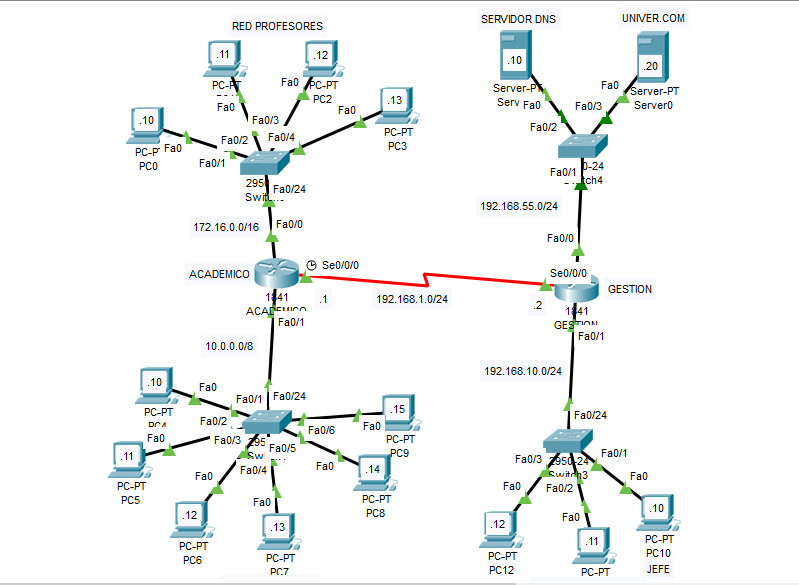
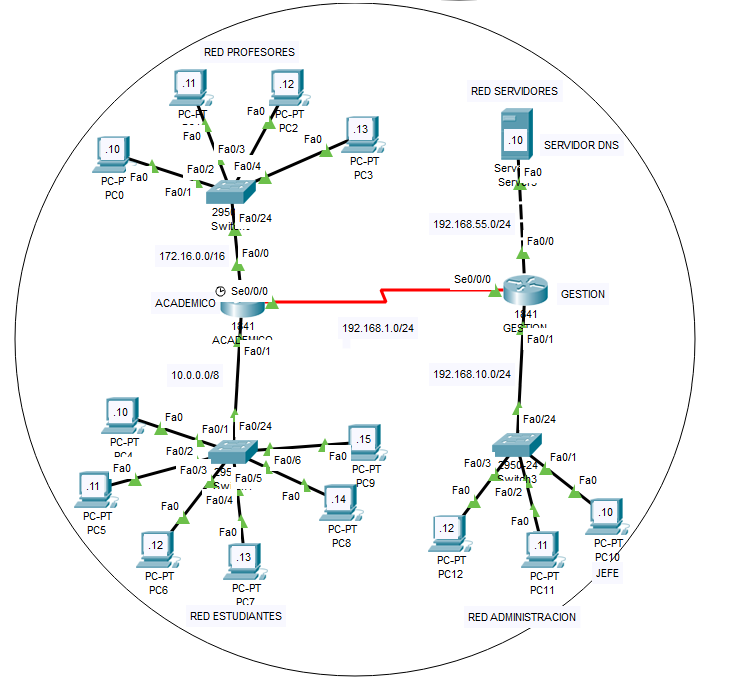
Topologia de Red, Tabla de direccionamiento, Comandos CLI configuración, Archivo .pkt

Changed region(s): [[0.0, 0.0, 0.8703, 1.0], [0.1554, 0.1231, 0.1865, 0.1538]]

diff --git a/README.md b/README.md
@@ -15,4 +15,113 @@ DHCP simplifica la administración de direcciones IP
 ![alt text](https://github.com/brahianf/DHCP-Router/blob/master/TOPOLOGIARED.PNG)
 
 
+DHCP significa protocolo de configuración de host dinámico y es un protocolo de red utilizado en redes IP donde un servidor DHCP asigna automáticamente una dirección IP y otra información a cada host en la red para que puedan comunicarse de manera eficiente con otros puntos finales.
+Además de la dirección IP, DHCP también asigna la máscara de subred, la dirección de puerta de enlace predeterminada, la dirección del servidor de nombres de dominio (DNS) y otros parámetros de configuración pertinentes. La solicitud de comentarios (RFC) 2131 y 2132 define DHCP como un estándar definido por IETF (Internet Engineering Task Force) basado en el protocolo BOOTP.
+
+### Tabla de direccionamiento
+
+![alt text](https://github.com/brahianf/DHCP-Router/blob/master/TABLADIRECCIONAMIENTO.PNG)
+
+La razón principal por la que se necesita DHCP es para simplificar la administración de las direcciones IP en las redes. No hay dos hosts que puedan tener la misma dirección IP, y configurarlos manualmente puede generar errores. Incluso en redes pequeñas la asignación manual de direcciones IP puede ser confusa, especialmente con dispositivos móviles que requieren direcciones IP de forma no permanente.
+
+### Comandos CLI
+
+Router ACADEMICO
+```
+	Router>enable
+    Router#configure terminal 
+    Router(config)#hostname ACADEMICO
+
+    ACADEMICO(config)#interface fastEthernet 0/0
+    ACADEMICO(config-if)#ip address 172.16.0.1 255.255.0.0
+    ACADEMICO(config-if)#ip helper-address 192.168.1.2
+    ACADEMICO(config-if)#no shutdown 
+    ACADEMICO(config-if)#exit
+
+    ACADEMICO(config)#interface fastEthernet 0/1
+    ACADEMICO(config-if)#ip address 10.0.0.1 255.0.0.0
+    ACADEMICO(config-if)#ip helper-address 192.168.1.2
+    ACADEMICO(config-if)#no shutdown 
+    ACADEMICO(config-if)#exit
+
+    ACADEMICO(config)#interface serial 0/0/0
+    ACADEMICO(config-if)#ip address 192.168.1.1 255.255.255.0
+    ACADEMICO(config-if)#clock rate 64000
+    ACADEMICO(config-if)#no shutdown 
+    ACADEMICO(config-if)#exit
+
+    ACADEMICO(config)#router rip 
+    ACADEMICO(config-router)#version 2
+    ACADEMICO(config-router)#no auto-summary
+    ACADEMICO(config-router)#passive-interface fastEthernet 0/0
+    ACADEMICO(config-router)#passive-interface fastEthernet 0/1 
+
+    ACADEMICO(config-router)#network 172.16.0.0
+    ACADEMICO(config-router)#network 10.0.0.0
+    ACADEMICO(config-router)#network 192.168.1.0
+    ACADEMICO(config-router)#exit
+
+
+
+```
+
+Router GESTION
+```
+    Router>enable 
+    Router#configure terminal 
+    Router(config)#hostname GESTION
+    GESTION(config)#interface fastEthernet 0/0
+    GESTION(config-if)#ip address 192.168.55.1 255.255.255.0
+    GESTION(config-if)#no shutdown 
+    GESTION(config-if)#exit
+
+    GESTION(config)#interface fastEthernet 0/1
+    GESTION(config-if)#ip address 192.168.10.1 255.255.255.0
+    GESTION(config-if)#no shutdown 
+    GESTION(config-if)#exit
+
+    GESTION(config)#interface serial 0/0/0
+    GESTION(config-if)#ip address 192.168.1.2 255.255.255.0
+    GESTION(config-if)#no shutdown 
+    GESTION(config-if)#exit
+
+    GESTION(config)#router rip 
+    GESTION(config-router)#version 2
+    GESTION(config-router)#no auto-summary
+    GESTION(config-router)#default-information originate  
+    GESTION(config-router)#passive-interface fastEthernet 0/0
+    GESTION(config-router)#passive-interface fastEthernet 0/1 
+
+    GESTION(config-router)#network 192.168.1.0 
+    GESTION(config-router)#network 192.168.55.0
+    GESTION(config-router)#network 192.168.10.0
+ 
+    GESTION(config)#ip dhcp excluded-address 192.168.10.1 192.168.10.9
+    GESTION(config)#ip dhcp excluded-address 192.168.10.254
+    GESTION(config)#ip dhcp pool LAN-ADMIN
+    GESTION(dhcp-config)#network 192.168.10.0 255.255.255.0
+    GESTION(dhcp-config)#default-router  192.168.10.1
+    GESTION(dhcp-config)#dns-server 192.168.55.10
+
+    GESTION(config)#ip dhcp excluded-address 172.16.0.1 172.16.0.9
+    GESTION(config)#ip dhcp excluded-address 172.16.0.254
+    GESTION(config)#ip dhcp pool LAN-PROFESORES
+    GESTION(dhcp-config)#network 172.16.0.0 255.255.0.0
+    GESTION(dhcp-config)#default-router 172.16.0.1 
+    GESTION(dhcp-config)#dns-server 192.168.55.10
+
+    GESTION(config)#ip dhcp excluded-address 10.0.0.1 10.0.0.9
+    GESTION(config)#ip dhcp excluded-address 10.0.0.254
+    GESTION(config)#ip dhcp pool LAN-ESTUDIANTES
+    GESTION(dhcp-config)#network 10.0.0.0 255.0.0.0
+    GESTION(dhcp-config)#default-router 10.0.0.1 
+    GESTION(dhcp-config)#dns-server 192.168.55.10 
+    GESTION(dhcp-config)#end
+
+    GESTION#copy running-config startup-config 
+```
+
+### RIPv2.pkt
+
+https://github.com/brahianf/DHCP-Router/blob/master/DHCP-Router.pkt
 
